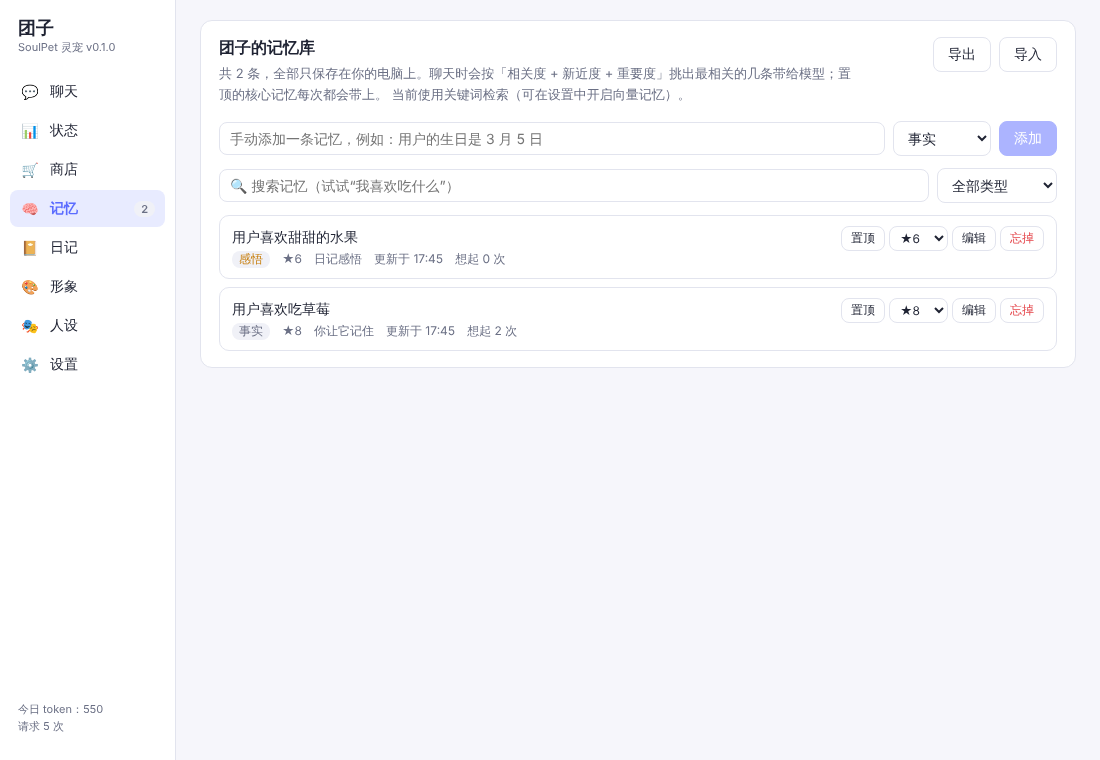
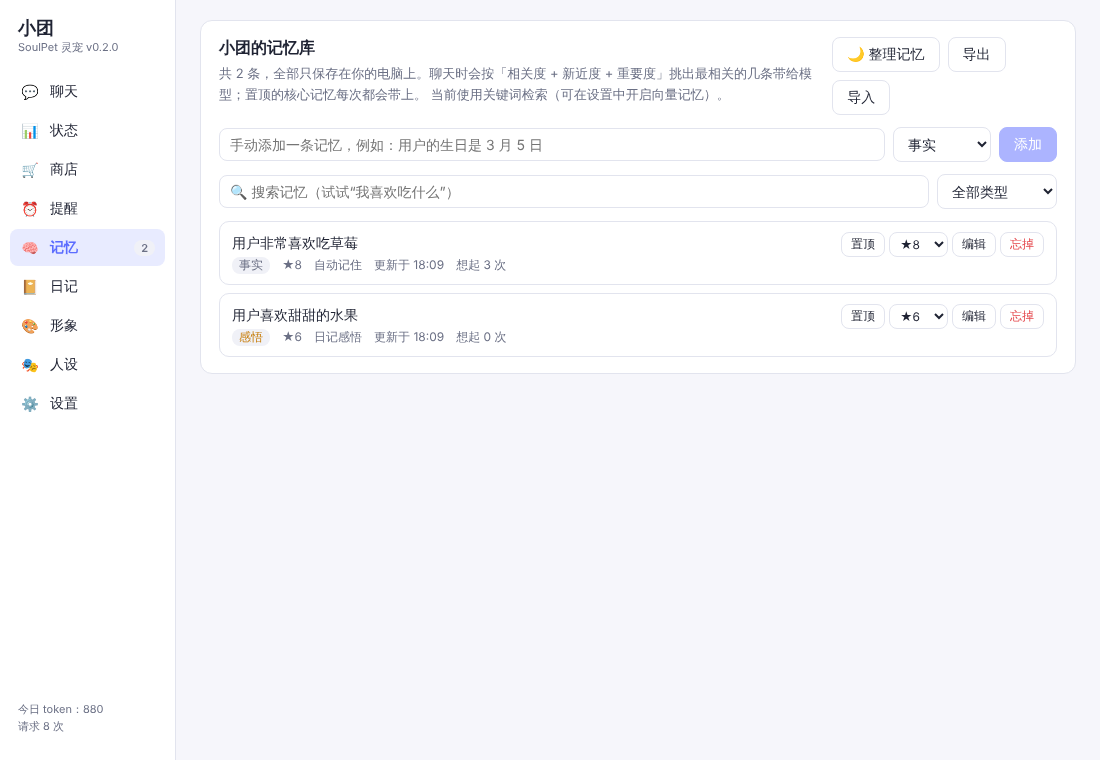
v0.2.0: log file, proxy setting, JSON mode for background calls, docs
- main.log in the data dir (rotated, API keys redacted) + 'view logs' button
- optional proxy (http/socks) via session.setProxy, default system proxy
- response_format json_object for memory/diary/consolidation calls with
  automatic retry when a provider rejects it
- release tags renamed to soulpet-v* so they never clash with DSH tags
- README, requirements and screenshots updated for v0.2

Claude-Session: https://claude.ai/code/session_01KQ2uAfAB2Y7tXDZVmH2UuQ

diff --git a/src/main/index.ts b/src/main/index.ts
@@ -10,6 +10,7 @@ import {
   nativeImage,
   net,
   Notification,
+  session,
   powerMonitor,
   shell,
   Tray,
@@ -23,6 +24,7 @@ import { DEFAULT_PERSONA, normalizePersona } from '../core/persona/persona'
 import type { ProviderConfig } from '../core/ai/types'
 import { AppCore, EMBEDDING_SECRET } from './core'
 import { PetMotion } from './motion'
+import { installLogger } from './logger'
 import { importFolder, importZip } from './packImport'
 import { PackManager, registerAssetScheme } from './packs'
 import { createPanelWindow, createPetWindow } from './windows'
@@ -238,6 +240,17 @@ function applyHotkey(): void {
   }
 }
 
+/** '' = system proxy; otherwise e.g. http://127.0.0.1:7890 or socks5://127.0.0.1:1080 */
+async function applyProxy(): Promise<void> {
+  const p = core.settings.data.app.proxy.trim()
+  try {
+    await session.defaultSession.setProxy(p ? { proxyRules: p, proxyBypassRules: '<local>' } : { mode: 'system' })
+    console.log('[proxy]', p || 'system')
+  } catch (e) {
+    console.warn('[proxy] invalid', p, e)
+  }
+}
+
 function applyAutoStart(): void {
   if (process.platform === 'linux' || !app.isPackaged) return
   app.setLoginItemSettings({ openAtLogin: core.settings.data.app.autoStart })
@@ -324,6 +337,7 @@ function registerIpc(): void {
     motion?.setPaused('disabled', !s.appearance.walkEnabled)
     if (s.app.dnd !== before.app.dnd || s.app.clickThrough !== before.app.clickThrough) rebuildTray()
     if (s.app.clickThrough !== before.app.clickThrough) applyClickThrough()
+    if (s.app.proxy !== before.app.proxy) void applyProxy()
     return pub
   })
   h('provider:upsert', (_e, cfg: ProviderConfig) => {
@@ -398,6 +412,7 @@ function registerIpc(): void {
   h('packs:select', (_e, id: string) => core.updateSettings({ appearance: { ...core.settings.data.appearance, packId: id } }))
   h('app:openPacks', () => void shell.openPath(packs.userDir))
   h('app:openData', () => void shell.openPath(core.dataDir))
+  h('app:openLogs', () => void shell.openPath(path.join(core.dataDir, 'logs')))
   h('app:openExternal', (_e, url: string) => {
     if (/^https?:\/\//.test(url)) void shell.openExternal(url)
   })
@@ -432,8 +447,11 @@ function registerIpc(): void {
 async function main(): Promise<void> {
   if (process.platform === 'darwin') app.dock?.hide()
   if (process.platform === 'win32') app.setAppUserModelId('io.github.soulpet.app') // needed for toast notifications
+  const dataDir = resolveDataDir()
+  installLogger(dataDir)
+  console.log(`[app] SoulPet ${app.getVersion()} on ${process.platform}, data: ${dataDir}`)
   core = new AppCore({
-    dataDir: resolveDataDir(),
+    dataDir,
     fetch: (url, init) => net.fetch(url, init as RequestInit),
     broadcast,
     systemIdleSeconds: () => powerMonitor.getSystemIdleTime()
@@ -445,6 +463,7 @@ async function main(): Promise<void> {
       console.warn('[notify]', e)
     }
   }
+  await applyProxy()
   packs = new PackManager(path.join(resourcesDir, 'pets'), path.join(core.dataDir, 'pets'))
   packs.installProtocol()
   packs.scan()

diff --git a/tests/robustness.test.ts b/tests/robustness.test.ts
@@ -1,0 +1,32 @@
+import { describe, expect, it } from 'vitest'
+import { streamOpenAI } from '../src/core/ai/openai'
+import type { ProviderConfig } from '../src/core/ai/types'
+import { redact } from '../src/main/logger'
+
+const cfg: ProviderConfig = { id: 'x', name: 'x', kind: 'openai', baseURL: 'https://api.example.com/v1', model: 'm' }
+
+describe('json mode', () => {
+  it('sends response_format and retries without it when the provider rejects it', async () => {
+    const bodies: any[] = []
+    const fakeFetch = async (_u: string, init?: RequestInit) => {
+      const b = JSON.parse(String(init?.body))
+      bodies.push(b)
+      if (b.response_format) return new Response('{"error":{"message":"response_format not supported"}}', { status: 400 })
+      return new Response(JSON.stringify({ choices: [{ message: { content: '{"ops":[]}' } }] }), { status: 200, headers: { 'content-type': 'application/json' } })
+    }
+    const r = await streamOpenAI(cfg, [{ role: 'user', content: 'json please' }], { apiKey: 'k', fetch: fakeFetch, json: true })
+    expect(r.text).toBe('{"ops":[]}')
+    expect(bodies).toHaveLength(2)
+    expect(bodies[0].response_format).toEqual({ type: 'json_object' })
+    expect(bodies[1].response_format).toBeUndefined()
+  })
+})
+
+describe('log redaction', () => {
+  it('masks API keys and bearer tokens', () => {
+    expect(redact('key sk-abcdefgh12345678901234 used')).toBe('key sk-abcdefgh… used')
+    expect(redact('sk-ant-api03abcdefghijklmnop')).toBe('sk-ant-api03abc…')
+    expect(redact('Authorization: Bearer abcdefghijklmnopqrstu')).toBe('Authorization: Bearer …')
+    expect(redact('nothing secret here')).toBe('nothing secret here')
+  })
+})

diff --git a/src/main/logger.ts b/src/main/logger.ts
@@ -1,0 +1,38 @@
+/** Mirror console output into <data>/logs/main.log (rotated at 2 MB) for troubleshooting. */
+import fs from 'node:fs'
+import path from 'node:path'
+import { format } from 'node:util'
+
+const MAX = 2 * 1024 * 1024
+let file = ''
+
+/** Redact anything that looks like an API key before it reaches the disk. */
+export function redact(s: string): string {
+  return s.replace(/\b(sk-(?:ant-)?[A-Za-z0-9_-]{8})[A-Za-z0-9_-]{8,}/g, '$1…').replace(/(Bearer\s+)[A-Za-z0-9._-]{12,}/gi, '$1…')
+}
+
+function write(level: string, args: unknown[]): void {
+  if (!file) return
+  try {
+    if (fs.existsSync(file) && fs.statSync(file).size > MAX) fs.renameSync(file, file.replace(/\.log$/, '.old.log'))
+    fs.appendFileSync(file, `${new Date().toISOString()} [${level}] ${redact(format(...args))}\n`)
+  } catch {
+    /* never let logging crash the app */
+  }
+}
+
+export function installLogger(dataDir: string): string {
+  const dir = path.join(dataDir, 'logs')
+  fs.mkdirSync(dir, { recursive: true })
+  file = path.join(dir, 'main.log')
+  for (const level of ['log', 'info', 'warn', 'error'] as const) {
+    const orig = console[level].bind(console)
+    console[level] = (...args: unknown[]) => {
+      orig(...args)
+      write(level, args)
+    }
+  }
+  process.on('uncaughtException', (e) => console.error('[uncaught]', e))
+  process.on('unhandledRejection', (e) => console.error('[unhandledRejection]', e))
+  return dir
+}

diff --git a/src/core/ai/openai.ts b/src/core/ai/openai.ts
@@ -33,18 +33,26 @@ export async function streamOpenAI(cfg: ProviderConfig, messages: ChatMessage[],
   if (typeof cfg.temperature === 'number') body.temperature = cfg.temperature
   const maxTokens = opts.maxTokens ?? cfg.maxTokens
   if (maxTokens) body.max_tokens = maxTokens
+  if (opts.json) body.response_format = { type: 'json_object' }
 
-  let res: Response
-  try {
-    res = await f(joinUrl(cfg.baseURL, 'chat/completions'), {
-      method: 'POST',
-      headers,
-      body: JSON.stringify(body),
-      signal: opts.signal
-    })
-  } catch (e) {
-    if ((e as Error).name === 'AbortError') throw e
-    throw new ProviderError(friendlyError(undefined, (e as Error).message))
+  const send = async (): Promise<Response> => {
+    try {
+      return await f(joinUrl(cfg.baseURL, 'chat/completions'), {
+        method: 'POST',
+        headers,
+        body: JSON.stringify(body),
+        signal: opts.signal
+      })
+    } catch (e) {
+      if ((e as Error).name === 'AbortError') throw e
+      throw new ProviderError(friendlyError(undefined, (e as Error).message))
+    }
+  }
+  let res = await send()
+  if (!res.ok && opts.json && (res.status === 400 || res.status === 422)) {
+    // Provider does not support response_format: retry once without it.
+    delete body.response_format
+    res = await send()
   }
   if (!res.ok) {
     const detail = await errorDetail(res)

diff --git a/src/renderer/panel/tabs/SettingsTab.tsx b/src/renderer/panel/tabs/SettingsTab.tsx
@@ -360,11 +360,17 @@ export function SettingsTab({ snap, onRefresh }: { snap: Snapshot; onRefresh: ()
         <Field label="聊天快捷键" hint="Electron 加速键格式，例如 CommandOrControl+Shift+Space">
           <input defaultValue={s.app.hotkey} onBlur={(e) => e.target.value !== s.app.hotkey && update({ app: { ...s.app, hotkey: e.target.value } })} />
         </Field>
+        <Field label="网络代理" hint="留空 = 跟随系统代理。例如 http://127.0.0.1:7890 或 socks5://127.0.0.1:1080（访问 OpenAI / Claude 时可能需要）">
+          <input defaultValue={s.app.proxy} placeholder="跟随系统" onBlur={(e) => e.target.value.trim() !== s.app.proxy && update({ app: { ...s.app, proxy: e.target.value.trim() } })} />
+        </Field>
         <Field label="数据目录" hint="存档、聊天记录、记忆库都在这里，整个文件夹复制走就是完整备份">
           <div className="row">
             <code className="path">{snap.dataDir}</code>
             <button className="btn ghost" onClick={() => void api.openDataFolder()}>
               打开
+            </button>
+            <button className="btn ghost" onClick={() => void api.openLogsFolder()}>
+              查看日志
             </button>
           </div>
         </Field>

diff --git a/src/core/settings.ts b/src/core/settings.ts
@@ -40,7 +40,7 @@ export interface Settings {
     blobAccessory: BlobAccessory
     opacity: number
   }
-  app: { autoStart: boolean; dnd: boolean; hotkey: string; alwaysOnTop: boolean; clickThrough: boolean }
+  app: { autoStart: boolean; dnd: boolean; hotkey: string; alwaysOnTop: boolean; clickThrough: boolean; proxy: string }
   voice: { enabled: boolean; voiceName: string; rate: number; pitch: number; volume: number }
   window: { x: number | null; y: number | null }
   /** greeting shown */
@@ -61,7 +61,7 @@ export function defaultSettings(): Settings {
     proactive: { level: 'medium', quietEnabled: true, quietStart: '23:00', quietEnd: '08:00', useAI: false },
     game: { difficulty: 'normal', maxOfflineHours: 12 },
     appearance: { packId: BUILTIN_PACK_ID, scale: 1, walkEnabled: true, blobColor: '#8fd3ff', blobAccessory: 'bow', opacity: 1 },
-    app: { autoStart: false, dnd: false, hotkey: 'CommandOrControl+Shift+Space', alwaysOnTop: true, clickThrough: false },
+    app: { autoStart: false, dnd: false, hotkey: 'CommandOrControl+Shift+Space', alwaysOnTop: true, clickThrough: false, proxy: '' },
     voice: { enabled: false, voiceName: '', rate: 1.1, pitch: 1.3, volume: 0.9 },
     window: { x: null, y: null },
     onboarded: false,

diff --git a/src/main/core.ts b/src/main/core.ts
@@ -596,6 +596,7 @@ export class AppCore {
       apiKey: this.keyFor(p),
       fetch: this.opts.fetch,
       maxTokens: p.kind === 'anthropic' ? 8000 : 800,
+      json: true,
       signal: AbortSignal.timeout(60_000)
     })
     this.recordUsage(r.usage.inputTokens, r.usage.outputTokens)
@@ -621,7 +622,7 @@ export class AppCore {
       const r = await chat(
         p,
         buildDiaryMessages({ persona: this.persona.data, date, chat: chatMsgs, activities, status: describeForPrompt(this.game.data) }),
-        { apiKey: this.keyFor(p), fetch: this.opts.fetch, maxTokens: p.kind === 'anthropic' ? 8000 : 900, signal: AbortSignal.timeout(90_000) }
+        { apiKey: this.keyFor(p), fetch: this.opts.fetch, maxTokens: p.kind === 'anthropic' ? 8000 : 900, json: true, signal: AbortSignal.timeout(90_000) }
       )
       this.recordUsage(r.usage.inputTokens, r.usage.outputTokens)
       const parsed = parseDiary(r.text)
@@ -653,6 +654,7 @@ export class AppCore {
         apiKey: this.keyFor(p),
         fetch: this.opts.fetch,
         maxTokens: p.kind === 'anthropic' ? 8000 : 1200,
+        json: true,
         signal: AbortSignal.timeout(90_000)
       })
       this.recordUsage(r.usage.inputTokens, r.usage.outputTokens)

diff --git a/src/core/ipc.ts b/src/core/ipc.ts
@@ -125,6 +125,7 @@ export interface SoulPetAPI {
   packImport(kind: 'zip' | 'folder'): Promise<{ ok: boolean; packId?: string; name?: string; warnings?: string[]; error?: string }>
   openPacksFolder(): Promise<void>
   openDataFolder(): Promise<void>
+  openLogsFolder(): Promise<void>
   openExternal(url: string): Promise<void>
 
   openPanel(tab?: string): Promise<void>

diff --git a/src/preload/index.ts b/src/preload/index.ts
@@ -44,6 +44,7 @@ const api: SoulPetAPI = {
   packImport: (kind) => invoke('packs:import', kind),
   openPacksFolder: () => invoke('app:openPacks'),
   openDataFolder: () => invoke('app:openData'),
+  openLogsFolder: () => invoke('app:openLogs'),
   openExternal: (url) => invoke('app:openExternal', url),
 
   openPanel: (tab) => invoke('app:openPanel', tab),

diff --git a/src/core/ai/types.ts b/src/core/ai/types.ts
@@ -44,6 +44,8 @@ export interface CallOptions {
   onDelta?: (text: string) => void
   fetch?: FetchLike
   maxTokens?: number
+  /** Ask OpenAI-compatible providers for a JSON object (falls back if unsupported). */
+  json?: boolean
 }
 
 export class ProviderError extends Error {

diff --git a/docs/REQUIREMENTS.md b/docs/REQUIREMENTS.md
@@ -35,7 +35,7 @@
 | A5 | **状态映射 + 回退**：内部有 idle/walk/drag/fall/sleep/eat/happy/sad/think/talk/work/sick 等语义状态，素材缺哪个就回退到相近状态，至少要有 idle | P0 ✅ |
 | A6 | 缩放（50%–200%）、水平镜像（向左走自动翻转） | P0 ✅ |
 | A7 | **成长阶段形象**：幼年 / 少年 / 成年可分别指定素材（可选），否则按比例缩放 | P1（缩放 ✅） |
-| A8 | 从 zip / 拖拽文件夹导入形象包，导入时校验 | P1 |
+| A8 | 从 zip / 拖拽文件夹导入形象包，导入时校验 | P1 ✅ |
 | A9 | Live2D（Cubism 4）/ VRM 3D 模型支持 | P2 |
 | A10 | AI 生成形象：一张参考图 → 图像模型 → 自动切成精灵图 | P2 |
 | A11 | 换装 / 饰品叠加层（饰品可在商店购买） | P2 |
@@ -66,9 +66,9 @@
 | G5 | 商店（金币购买） | P0 ✅ |
 | G6 | 等级、成长阶段、升级奖励 | P0 ✅ |
 | G7 | 难度：休闲 / 标准 / 硬核（调节衰减速度） | P0 ✅ |
-| G8 | 每日签到、成就徽章 | P0 ✅（签到）/ P1（成就） |
-| G9 | 番茄钟/专注模式：宠物陪你"一起工作"，完成后得金币和经验 | P1 |
-| G10 | 随机事件：捡到金币、做了个梦、心血来潮的小请求 | P1 |
+| G8 | 每日签到、成就徽章 | P0 ✅ |
+| G9 | 番茄钟/专注模式：宠物陪你"一起工作"，完成后得金币和经验 | P1 ✅ |
+| G10 | 随机事件：捡到金币、做了个梦、心血来潮的小请求 | P1 ✅ |
 | G11 | 数值会影响 AI：饿了会在聊天里撒娇要吃的，困了说话没精神 | P0 ✅ |
 | G12 | 物品可由形象包 / MOD 扩展 | P2 |
 
@@ -88,8 +88,8 @@
 | I8 | API Key 本地加密保存（系统钥匙串 `safeStorage`），不进渲染进程 | P0 ✅ |
 | I9 | **成本控制**：记录每日 token 用量，可设每日上限；记忆整理可指定更便宜的模型 | P0 ✅（统计+上限） |
 | I10 | 连接测试按钮 + 清晰的错误提示（Key 错、余额不足、网络不通） | P0 ✅ |
-| I11 | 工具调用：设提醒、查时间/天气、记待办 | P1 |
-| I12 | 语音：TTS（Edge TTS / GPT-SoVITS 等）与语音输入（Whisper） | P2 |
+| I11 | 工具调用：设提醒、查时间/天气、记待办 | P1 ✅（提醒、待办：用 `[[remind]]` 标签，所有模型通用） |
+| I12 | 语音：TTS（Edge TTS / GPT-SoVITS 等）与语音输入（Whisper） | P2（系统语音朗读 ✅） |
 | I13 | 看屏幕 / 读剪贴板（多模态，需显式授权） | P2 |
 | I14 | MCP 工具接入（需权限确认） | P2 |
 
@@ -120,8 +120,8 @@
 | M8 | 导出 / 导入（JSON），换电脑不丢 | P0 ✅ |
 | M9 | 每日日记 + 反思（定时或手动触发） | P0 ✅（手动/每日首次启动） |
 | M10 | 遗忘曲线：长期不被想起的低重要度记忆检索权重下降 | P0 ✅（检索时衰减） |
-| M11 | 对话压缩：历史超过阈值时自动摘要 | P1 |
-| M12 | 记忆整理（"做梦"）：合并相似记忆、清理过期内容 | P1 |
+| M11 | 对话压缩：历史超过阈值时自动摘要 | P1 ✅（每日情节摘要） |
+| M12 | 记忆整理（"做梦"）：合并相似记忆、清理过期内容 | P1 ✅ |
 | M13 | 本地 Embedding 模型（transformers.js / Ollama），完全离线 | P2 |
 | M14 | 记忆加密存储、多设备同步 | P2 |
 
@@ -140,8 +140,8 @@
 | X7 | 全局快捷键唤出聊天框 | P0 ✅ |
 | X8 | 数据目录可一键打开、可整体备份 | P0 ✅ |
 | X9 | 检测到全屏应用（游戏/演示）时自动隐藏 | P1 |
-| X10 | 提醒 / 待办 / 番茄钟 | P1 |
-| X11 | 鼠标穿透模式（宠物不挡点击） | P1 |
+| X10 | 提醒 / 待办 / 番茄钟 | P1 ✅ |
+| X11 | 鼠标穿透模式（宠物不挡点击） | P1 ✅ |
 | X12 | 自动更新（GitHub Releases） | P1 |
 | X13 | 多只宠物同时在桌面、宠物之间互动 | P2 |
 | X14 | 插件 / MOD 系统 | P2 |
@@ -166,8 +166,9 @@
 
 ## 7. 版本规划
 
-- **v0.1（本次）**：上面所有 P0 —— 能在桌面上跑、能换形象、能养、能聊、能记住你。
-- **v0.2**：番茄钟/提醒（G9/X10）、工具调用（I11）、对话压缩与记忆整理（M11/M12）、成就、全屏隐藏、自动更新、zip 导入。
+- **v0.1**：上面所有 P0 —— 能在桌面上跑、能换形象、能养、能聊、能记住你。
+- **v0.2（已完成）**：首次启动引导、提醒/待办/番茄钟、让 AI 设提醒、记忆整理与情节摘要、成就、随机事件、语音朗读、鼠标穿透、zip 导入形象包、代理设置、日志文件。
+- **v0.2.x**：全屏时自动隐藏、自动更新、语音输入。
 - **v0.3**：语音（I12）、Live2D（A9）、本地 Embedding（M13）、多宠物（X13）、MOD（X14）。
 
 ## 8. v0.1 验收清单

diff --git a/README.md b/README.md
@@ -4,6 +4,7 @@
 
 <p>
   <img src="docs/screenshots/pet-reply.png" height="200" alt="内置宠物团子在桌面上说话">
+  <img src="docs/screenshots/pet-focus.png" height="200" alt="番茄钟专注中的团子">
   <img src="docs/screenshots/pet-codex.png" height="200" alt="Codex 格式示例宠物小灵">
 </p>
 
